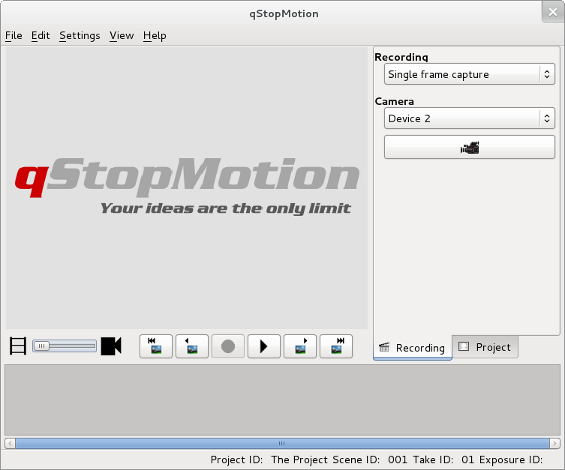
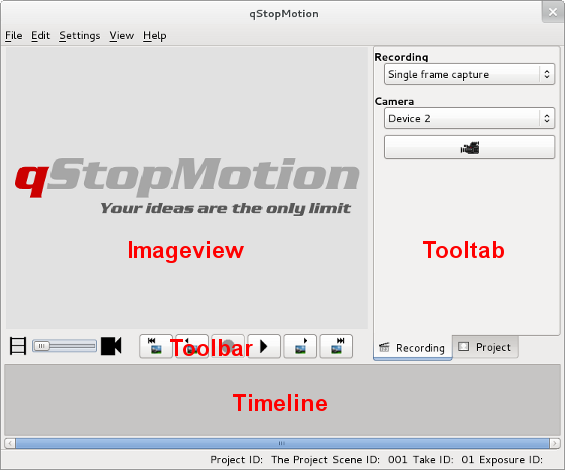
Changing the name and formating of the manual pages (part 4).

diff --git a/manual/using_webcamera.html b/manual/using_webcamera.html
@@ -4,7 +4,7 @@
 <TITLE>Using Stopmotion with your webcamera</TITLE>
 <LINK REL="HOME" TITLE="Stopmotion user manual" HREF="index.html">
 <LINK REL="PREVIOUS" TITLE="Running/previewing the animation" HREF="running_animation.html">
-<LINK REL="NEXT" TITLE="Changing the import settings" HREF="import_settings.html">
+<LINK REL="NEXT" TITLE="Export to video" HREF="exporting_video.html">
 </HEAD>
 <BODY CLASS="section">
 <DIV CLASS="NAVHEADER">
@@ -15,7 +15,7 @@
     <TR>
       <TD WIDTH="10%" ALIGN="left" VALIGN="bottom"><A HREF="running_animation.html" ACCESSKEY="P">Prev</A></TD>
       <TD WIDTH="80%" ALIGN="center" VALIGN="bottom"></TD>
-      <TD WIDTH="10%" ALIGN="right" VALIGN="bottom"><A HREF="import_settings.html" ACCESSKEY="N">Next</A></TD>
+      <TD WIDTH="10%" ALIGN="right" VALIGN="bottom"><A HREF="exporting_video.html" ACCESSKEY="N">Next</A></TD>
     </TR>
   </TABLE>
   <HR>
@@ -23,11 +23,10 @@
 <DIV CLASS="section">
   <H1 CLASS="section">5. Using qStopMotion with your webcamera</H1>
   <P>The real value of using qStopMotion lies in working directly	against a webcamera.</P>
-  <P>If you have a webcamera that works on your linux distribution and <SPAN CLASS="application">vgrabbj</SPAN> installed	you can start the camera by pressing the <SPAN CLASS="guiicon"><IMG SRC="icons/cameraon.png" width="32" height="32"></SPAN> (<B CLASS="shortcut"><B CLASS="keycap">C</B></B>) button. </P>
-  <P>If not you can go to the the next section ``Changing the import settings'' to set up your camera correctly.</P>
+  <P>If you have selected a video	device you can start the camera by pressing the <SPAN CLASS="guiicon"><IMG SRC="icons/cameraon.png" width="32" height="32"></SPAN> (<B CLASS="shortcut"><B CLASS="keycap">C</B></B>) button. </P>
   <DIV CLASS="figure">
-    <P><B>Figure 4. The Camera menu</B></P>
-    <P><IMG SRC="screenshots/camera_running.png"></P>
+    <P><B>Figure 5.1 The Camera menu</B></P>
+    <P><IMG SRC="screenshots/camera_running.png" width="565" height="470"></P>
   </DIV>
   <DIV CLASS="note">
     <TABLE CLASS="note" WIDTH="100%" BORDER="0">
@@ -44,7 +43,7 @@
       <DD>
         <P>The image mixing is probably the view mode	you will be using the most. This mode allows you to view previous pictures (up to five) on top of the camera. This way you can position the figure in relation to the previous frames	so that you can create smooth motions.</P>
         <DIV CLASS="figure">
-          <P><B>Figure 5. The onionskinning/mixing mode</B></P>
+          <P><B>Figure 5.2 The onionskinning/mixing mode</B></P>
           <P><IMG SRC="screenshots/mode_mixing.png" width="565" height="470"></P>
         </DIV>
         <P>You can change the number of pictures to	view on top of the camera with the ``Number of mixes'' slider	on the camera panel.</P>
@@ -55,7 +54,7 @@
         <P>It displays the difference between the selected frame and the camera. This way if an object in front off the camera has been	involountairly moved (fallen, etc) you can use the differentiation mode, together with the image mixing, to	move the object back to its previous position.</P>
         <P>This can be done by moving the figure until the picture is black, which means the selected frame and the camera are ``equal''.</P>
         <DIV CLASS="figure">
-          <P><B>Figure 6. The differentiation mode</B></P>
+          <P><B>Figure 5.3 The differentiation mode</B></P>
           <P><IMG SRC="screenshots/mode_differentiation.png" width="565" height="470"></P>
         </DIV>
       </DD>
@@ -64,8 +63,8 @@
         <P>The playback mode will continously run the the already recorded frames as an animation with the input from the camera as the final frame.</P>
         <P>This way you can see the camera input, which will become the next frame, together with the previous frames as an animation.</P>
         <DIV CLASS="figure">
-          <P><B>Figure 7. The playback mode</B></P>
-          <P><IMG SRC="screenshots/mode_playback.png"></P>
+          <P><B>Figure 5.4 The playback mode</B></P>
+          <P><IMG SRC="screenshots/mode_playback.png" width="565" height="470"></P>
         </DIV>
         <P>You can specify how many frame backwards that should be played (up to 50) with	the ``Number of images'' slider on the camera panel, and you can set how fast they should played with the FPS chooser on the preview panel.</P>
       </DD>
@@ -78,12 +77,12 @@
     <TR>
       <TD WIDTH="33%" ALIGN="left" VALIGN="top"><A HREF="running_animation.html" ACCESSKEY="P">Prev</A></TD>
       <TD WIDTH="34%" ALIGN="center" VALIGN="top"><A HREF="index.html" ACCESSKEY="H">Home</A></TD>
-      <TD WIDTH="33%" ALIGN="right" VALIGN="top"><A HREF="import_settings.html" ACCESSKEY="N">Next</A></TD>
+      <TD WIDTH="33%" ALIGN="right" VALIGN="top"><A HREF="exporting_video.html" ACCESSKEY="N">Next</A></TD>
     </TR>
     <TR>
       <TD WIDTH="33%" ALIGN="left" VALIGN="top">Running/previewing the animation</TD>
       <TD WIDTH="34%" ALIGN="center" VALIGN="top">&nbsp;</TD>
-      <TD WIDTH="33%" ALIGN="right" VALIGN="top">Changing the import settings</TD>
+      <TD WIDTH="33%" ALIGN="right" VALIGN="top">Exporting to video</TD>
     </TR>
   </TABLE>
 </DIV>

diff --git a/manual/exporting_video.html b/manual/exporting_video.html
@@ -3,8 +3,8 @@
 <HEAD>
 	<TITLE>Exporting to video</TITLE>
 	<LINK REL="HOME" TITLE="Stopmotion user manual" HREF="index.html">
-	<LINK REL="PREVIOUS" TITLE="Adding sound" HREF="adding_sound.html">
-	<LINK REL="NEXT" TITLE="Using Stopmotion together with other programs."HREF="other_programs.html">
+	<LINK REL="PREVIOUS" TITLE="Using qStopMotion with your webcamera" HREF="using_webcamera.html">
+	<LINK REL="NEXT" TITLE="Getting access to the image files in your animation"HREF="getting_images.html">
 </HEAD>
 <BODY CLASS="section">
 	<DIV CLASS="NAVHEADER">
@@ -13,36 +13,36 @@
 				<TH COLSPAN="3" ALIGN="center"><SPAN CLASS="application">qStopMotion</SPAN> user manual</TH>
 			</TR>
 			<TR>
-				<TD WIDTH="10%" ALIGN="left" VALIGN="bottom"><A HREF="adding_sound.html" ACCESSKEY="P">Prev</A></TD>
+				<TD WIDTH="10%" ALIGN="left" VALIGN="bottom"><A HREF="using_webcamera.html" ACCESSKEY="P">Prev</A></TD>
 				<TD WIDTH="80%" ALIGN="center" VALIGN="bottom"></TD>
-				<TD WIDTH="10%" ALIGN="right" VALIGN="bottom"><A HREF="other_programs.html" ACCESSKEY="N">Next</A></TD>
+				<TD WIDTH="10%" ALIGN="right" VALIGN="bottom"><A HREF="getting_images.html" ACCESSKEY="N">Next</A></TD>
 			</TR>
 		</TABLE>
 		<HR>
 	</DIV>
 	<DIV CLASS="section">
-		<H1 CLASS="section">8. Exporting to video</H1>
+		<H1 CLASS="section">6. Exporting to video</H1>
 		<P>By now you should have a nice animation of your own. It's time to make a video file of it. The first thing you need to do is to install an video encoder. If you have mplayer installed you should already have one you can use.</P>
-		<P>Go to the Configure menu (<SPAN CLASS="guimenu"><SPAN CLASS="accel">S</SPAN>ettings</SPAN>-&gt;<SPAN CLASS="guimenuitem"><SPAN CLASS="accel">C</SPAN>onfigure qStopMotion</SPAN> (<B CLASS="shortcut"><B CLASS="keycap">Ctrl</B>-<B CLASS="keycap">P</B></B>)) and press the <SPAN CLASS="guimenu">Video <SPAN CLASS="accel">E</SPAN>xport</SPAN> tab.	You should now get a list of video export settings:</P>
+		<P>Go to the Preferences menu (<SPAN CLASS="guimenu"><SPAN CLASS="accel">S</SPAN>ettings</SPAN>-&gt;<SPAN CLASS="guimenuitem"><SPAN CLASS="accel">C</SPAN>onfigure qStopMotion</SPAN> (<B CLASS="shortcut"><B CLASS="keycap">Ctrl</B>-<B CLASS="keycap">P</B></B>)) and press the <SPAN CLASS="guimenu">Video <SPAN CLASS="accel">E</SPAN>xport</SPAN> tab.	You should now get a list of video export settings:</P>
 		<DIV CLASS="figure">
-			<P><B>Figure 9. The Video Export menu</B></P>
+			<P><B>Figure 6.1 The Video Export menu</B></P>
 			<P><IMG SRC="screenshots/preferences_video_export.png" width="425" height="400"></P>
 	  </DIV>
-		<P>You can select one of these provided you have the programs they use or you can add one of your own. To edit one of the present preferences press the <SPAN CLASS="guimenu"><SPAN CLASS="accel">E</SPAN>dit</SPAN> button, or use the <SPAN CLASS="guimenu"><SPAN CLASS="accel">A</SPAN>dd</SPAN>	button to add a new setting. When you have set up a video export setting you can close the Configure menu by pressing the OK button.</P>
+		<P>Change the video export setting to the format, size and frame rate you like. When you have set up a video export setting you can close the Configure menu by pressing the OK button.</P>
 		<P>To export your animation to a video file just press <SPAN CLASS="guimenu"><SPAN CLASS="accel">F</SPAN>ile</SPAN>-&gt;<SPAN CLASS="guimenuitem"><SPAN CLASS="accel">E</SPAN>xport</SPAN>-&gt;<SPAN CLASS="guimenuitem">Video</SPAN> (<B CLASS="shortcut"><B CLASS="keycap">Ctrl</B>-<B CLASS="keycap">Alt</B>-<B CLASS="keycap">V</B></B>) and you should have a video file of your exellent animation. Tell your friends!</P>
 	</DIV>
 	<DIV CLASS="NAVFOOTER">
 		<HR>
 		<TABLE SUMMARY="Footer navigation table" WIDTH="100%" BORDER="0" CELLPADDING="0" CELLSPACING="0">
 			<TR>
-				<TD WIDTH="33%" ALIGN="left" VALIGN="top"><A HREF="adding_sound.html" ACCESSKEY="P">Prev</A></TD>
+				<TD WIDTH="33%" ALIGN="left" VALIGN="top"><A HREF="using_webcamera.html" ACCESSKEY="P">Prev</A></TD>
 				<TD WIDTH="34%" ALIGN="center" VALIGN="top"><A HREF="index.html" ACCESSKEY="H">Home</A></TD>
-				<TD WIDTH="33%" ALIGN="right" VALIGN="top"><A HREF="other_programs.html" ACCESSKEY="N">Next</A></TD>
+				<TD WIDTH="33%" ALIGN="right" VALIGN="top"><A HREF="getting_images.html" ACCESSKEY="N">Next</A></TD>
 			</TR>
 			<TR>
-				<TD WIDTH="33%" ALIGN="left" VALIGN="top">Adding sound</TD>
+				<TD WIDTH="33%" ALIGN="left" VALIGN="top">Using qStopMotion together with other programs</TD>
 				<TD WIDTH="34%" ALIGN="center" VALIGN="top">&nbsp;</TD>
-				<TD WIDTH="33%" ALIGN="right" VALIGN="top">Using qStopMotion together with other programs.</TD>
+				<TD WIDTH="33%" ALIGN="right" VALIGN="top">Getting access to the image files in your animation</TD>
 			</TR>
 		</TABLE>
 	</DIV>

diff --git a/manual/getting_started.html b/manual/getting_started.html
@@ -30,14 +30,26 @@
   </UL>
   <P>When the program is started you will se the following:</P>
   <DIV CLASS="figure">
-    <P><B>Figure 1. qStopMotion at startup</B></P>
+    <P><B>Figure 2.1 qStopMotion at startup</B></P>
     <P><IMG SRC="screenshots/empty_project.png" width="565" height="470"></P>
   </DIV>
-  <P>To the top you have the Framebar where you will see all the pictures in the animation. 
-    The center area is the Frameview where you will get a closer look at your pictures,
-    see the webcamera and preview your animation. </P>
-  <P>The left area is the tools menu. On the top of this menu you have buttons for adding
-    pictures from the harddrive <SPAN CLASS="guiicon"><IMG SRC="icons/addframes.png" width="32" height="32"></SPAN> , adding new scenes <SPAN CLASS="guiicon"><IMG SRC="icons/addscene.png" width="32" height="32"></SPAN> as well as deleting frames and scenes <SPAN CLASS="guiicon"><IMG SRC="icons/removeframes.png" width="32" height="32"></SPAN> <SPAN CLASS="guiicon"><IMG SRC="icons/removescene.png" width="32" height="32"></SPAN>. You can also start the webcamera with the camera button <SPAN CLASS="guiicon"><IMG SRC="icons/cameraon.png" width="32" height="32"></SPAN>. </P>
+  <P>To the bottom you have the Timeline where you will see all the pictures in the animation.</P>
+  <P>The center area is the Imageview where you will get a closer look at your pictures,
+    see the webcamera and preview your animation. To the bottom of the Imageview you have the Toolbar to navigate in the Timeline, take pictures and play the animation. </P>
+  <P>The right area are the Tooltabs. To switch between the different Tooltabs use the flags to the bottom of the Tooltabs.</P>
+  <P>qStopMotion starts with the selected Recording Tooltab.</P>
+  <DIV CLASS="figure">
+    <P><B>Figure 2.2 The Recording Tooltab</B></P>
+    <P><IMG SRC="screenshots/tooltab_recording.png" width="565" height="470"></P>
+  </DIV>
+  <P>On the top of this tooltab you can select the recording method. All connected video devices contain the next listbox. At first you have to select one of these video devices. Now you can also start the video device with the camera button <SPAN CLASS="guiicon"><IMG SRC="icons/cameraon.png" width="32" height="32"></SPAN>.</P>
+  <P>The second Tooltab is the Project Tooltab.</P>
+  <DIV CLASS="figure">
+    <P><B>Figure 2.3 The Project Tooltab</B></P>
+    <P><IMG SRC="screenshots/tooltab_project.png" width="565" height="470"></P>
+  </DIV>
+  <P>On the top of this tooltab you have the project tree containing all scenes, takes and frames of your animation. Than you can see a line of buttons for inserting new scenes <SPAN CLASS="guiicon"><IMG SRC="icons/insertscene.png" width="32" height="32"></SPAN>, adding new scenes <SPAN CLASS="guiicon"><IMG SRC="icons/addscene.png" width="32" height="32"></SPAN> as well as deleting scenes <SPAN CLASS="guiicon"><IMG SRC="icons/removescene.png" width="32" height="32"></SPAN>.  The following line of buttons is for inserting new takes <SPAN CLASS="guiicon"><IMG SRC="icons/inserttake.png" width="32" height="32"></SPAN>, adding new takes <SPAN CLASS="guiicon"><IMG SRC="icons/addtake.png" width="32" height="32"></SPAN> as well as deleting takes <SPAN CLASS="guiicon"><IMG SRC="icons/removetake.png" width="32" height="32"></SPAN>. With the buttons in the last line you can inserting <SPAN CLASS="guiicon"><IMG SRC="icons/insertframes.png" width="32" height="32"></SPAN> or adding
+    pictures from the harddrive <SPAN CLASS="guiicon"><IMG SRC="icons/addframes.png" width="32" height="32"></SPAN> as well as deleting frames and scenes <SPAN CLASS="guiicon"><IMG SRC="icons/removeframes.png" width="32" height="32"></SPAN>. </P>
 </DIV>
 <DIV CLASS="NAVFOOTER">
   <HR>

diff --git a/manual/getting_images.html b/manual/getting_images.html
@@ -3,8 +3,8 @@
 <HEAD>
 	<TITLE>Getting access to the image files in your animation.</TITLE>
 	<LINK REL="HOME" TITLE="Stopmotion user manual" HREF="index.html">
-	<LINK REL="PREVIOUS" TITLE="Using Stopmotion together with other programs." HREF="other_programs.html">
-	<LINK REL="NEXT" TITLE="Troubleshooting" HREF="trouble_shooting.html">
+	<LINK REL="PREVIOUS" TITLE="Exporting to video" HREF="exporting_video.html">
+	<LINK REL="NEXT" TITLE="Shortcut keys" HREF="shortcut_keys.html">
 </HEAD>
 <BODY CLASS="section">
 	<DIV CLASS="NAVHEADER">
@@ -13,7 +13,7 @@
 				<TH COLSPAN="3" ALIGN="center"><SPAN CLASS="application">qStopMotion</SPAN> user manual</TH>
 			</TR>
 			<TR>
-				<TD WIDTH="10%" ALIGN="left" VALIGN="bottom"><A HREF="other_programs.html" ACCESSKEY="P">Prev</A></TD>
+				<TD WIDTH="10%" ALIGN="left" VALIGN="bottom"><A HREF="exporting_video.html" ACCESSKEY="P">Prev</A></TD>
 				<TD WIDTH="80%" ALIGN="center" VALIGN="bottom"></TD>
 				<TD WIDTH="10%" ALIGN="right" VALIGN="bottom"><A HREF="shortcut_keys.html" ACCESSKEY="N">Next</A></TD>
 			</TR>
@@ -21,21 +21,21 @@
 		<HR>
 	</DIV>
 	<DIV CLASS="section">
-		<H1 CLASS="section">10. Getting access to the image files in your animation.</H1>
+		<H1 CLASS="section">7. Getting access to the image files in your animation.</H1>
 		<P>If you want access to the image files in your animation project you can open the project .sto file in your file browser. The file is a tarball file and inside it you will find the images in the images directory.</P>
 	</DIV>
 	<DIV CLASS="NAVFOOTER">
 		<HR>
 		<TABLE SUMMARY="Footer navigation table" WIDTH="100%" BORDER="0" CELLPADDING="0" CELLSPACING="0">
 			<TR>
-				<TD WIDTH="33%" ALIGN="left" VALIGN="top"><A HREF="other_programs.html" ACCESSKEY="P">Prev</A></TD>
+				<TD WIDTH="33%" ALIGN="left" VALIGN="top"><A HREF="exporting_video.html" ACCESSKEY="P">Prev</A></TD>
 				<TD WIDTH="34%" ALIGN="center" VALIGN="top"><A HREF="index.html" ACCESSKEY="H">Home</A></TD>
 				<TD WIDTH="33%" ALIGN="right" VALIGN="top"><A HREF="shortcut_keys.html" ACCESSKEY="N">Next</A></TD>
 			</TR>
 			<TR>
-				<TD WIDTH="33%" ALIGN="left" VALIGN="top">Using qStopMotion together with other programs.</TD>
+				<TD WIDTH="33%" ALIGN="left" VALIGN="top">Exporting video</TD>
 				<TD WIDTH="34%" ALIGN="center" VALIGN="top">&nbsp;</TD>
-				<TD WIDTH="33%" ALIGN="right" VALIGN="top">Troubleshooting</TD>
+				<TD WIDTH="33%" ALIGN="right" VALIGN="top">Shortcut keys</TD>
 			</TR>
 		</TABLE>
 	</DIV>

diff --git a/manual/running_animation.html b/manual/running_animation.html
@@ -25,10 +25,10 @@
   <P>Now that you have added some test pictures to your animations wouldn't you like to run them as an animation?</P>
   <P>qStopMotion allows you to preview your animation before exporting it. This can be done through the play panel.</P>
   <DIV CLASS="figure">
-    <P><B>Figure 3. The Run Animation menu</B></P>
-    <P><IMG SRC="screenshots/run_animation.png"></P>
+    <P><B>Figure 4.1 The Run Animation menu</B></P>
+    <P><IMG SRC="screenshots/run_animation.png" width="565" height="470"></P>
   </DIV>
-  <P>The play panel allows you to play	(<SPAN CLASS="guiicon"><IMG SRC="icons/play.png" width="32" height="32"></SPAN> (<B CLASS="shortcut"><B CLASS="keycap">K</B></B>))	and stop (<SPAN CLASS="guiicon"><IMG SRC="icons/stop.png" width="32" height="32"></SPAN>) the running of the animation. You can also move between frames	(<SPAN CLASS="guiicon"><IMG SRC="icons/previousscene.png" width="32" height="32"></SPAN> (<B CLASS="shortcut"><B CLASS="keycap">J</B></B>), <SPAN CLASS="guiicon"><IMG SRC="icons/nextscene.png" width="32" height="32"></SPAN> (<B CLASS="shortcut"><B CLASS="keycap">L</B></B>)) and scenes (<SPAN CLASS="guiicon"><IMG SRC="icons/firstscene.png" width="32" height="32"></SPAN> (<B CLASS="shortcut"><B CLASS="keycap">I</B></B>), <SPAN CLASS="guiicon"><IMG SRC="icons/lastscene.png" width="32" height="32"></SPAN> (<B CLASS="shortcut"><B CLASS="keycap">O</B></B>))	as well as changing the speed of the animation preview(frames	per second).</P>
+  <P>The play panel allows you to play	(<SPAN CLASS="guiicon"><IMG SRC="icons/play.png" width="32" height="32"></SPAN> (<B CLASS="shortcut"><B CLASS="keycap">K</B></B>))	and stop (<SPAN CLASS="guiicon"><IMG SRC="icons/stop.png" width="32" height="32"></SPAN>) the running of the animation. You can also move between frames	(<SPAN CLASS="guiicon"><IMG SRC="icons/previousexposure.png" width="32" height="32"></SPAN> (<B CLASS="shortcut"><B CLASS="keycap">J</B></B>), <SPAN CLASS="guiicon"><IMG SRC="icons/nextexposure.png" width="32" height="32"></SPAN> (<B CLASS="shortcut"><B CLASS="keycap">L</B></B>)) and to fist or last frame (<SPAN CLASS="guiicon"><IMG SRC="icons/firstexposure.png" width="32" height="32"></SPAN> (<B CLASS="shortcut"><B CLASS="keycap">I</B></B>), <SPAN CLASS="guiicon"><IMG SRC="icons/lastexposure.png" width="32" height="32"></SPAN> (<B CLASS="shortcut"><B CLASS="keycap">O</B></B>)).</P>
   <DIV CLASS="note">
     <TABLE CLASS="note" WIDTH="100%" BORDER="0">
       <TR>

diff --git a/manual/trouble_shooting.html b/manual/trouble_shooting.html
@@ -3,7 +3,7 @@
 <HEAD>
 	<TITLE>Troubleshooting</TITLE>
 	<LINK REL="HOME" TITLE="Stopmotion user manual" HREF="index.html">
-	<LINK REL="PREVIOUS" TITLE="Getting access to the image files in your animation." HREF="getting_images.html">
+	<LINK REL="PREVIOUS" TITLE="Shortcut keys" HREF="shortcut_keys.html">
 </HEAD>
 <BODY CLASS="section">
 	<DIV CLASS="NAVHEADER">
@@ -20,9 +20,9 @@
 		<HR>
 	</DIV>
 	<DIV CLASS="section">
-		<H1 CLASS="section">12. Troubleshooting</H1>
+		<H1 CLASS="section">9. Troubleshooting</H1>
 		<DIV CLASS="section">
-			<H2 CLASS="section">12.1. The program tells me it can't import images</H2>
+			<H2 CLASS="section">9.1. The program tells me it can't import images</H2>
 			<P>Have you checked that:</P>
 			<OL TYPE="1">
 				<LI>The camera is working in Linux and the driver is properly set up?</LI>
@@ -40,7 +40,7 @@
 				<TD WIDTH="33%" ALIGN="right" VALIGN="top">&nbsp;</TD>
 			</TR>
 			<TR>
-				<TD WIDTH="33%" ALIGN="left" VALIGN="top">Getting access to the image files in your animation.</TD>
+				<TD WIDTH="33%" ALIGN="left" VALIGN="top">Shortcut keys</TD>
 				<TD WIDTH="34%" ALIGN="center" VALIGN="top">&nbsp;</TD>
 				<TD WIDTH="33%" ALIGN="right" VALIGN="top">&nbsp;</TD>
 			</TR>

diff --git a/manual/adding_pictures.html b/manual/adding_pictures.html
@@ -22,11 +22,11 @@
 </DIV>
 <DIV CLASS="section">
   <H1 CLASS="section">3. Adding pictures</H1>
-  <P>The next step is to try adding some pictures from the harddrive. You can do this by
-    clicking on the <SPAN CLASS="guiicon"><IMG SRC="icons/addframes.png" width="32" height="32"></SPAN> (<B CLASS="shortcut"><B CLASS="keycap">Ctrl</B>-<B CLASS="keycap">F</B></B>) button.</P>
+  <P>The next step is to try adding some pictures from the harddrive.</P>
+  <P>You can do this by clicking on the <SPAN CLASS="guiicon"><IMG SRC="icons/addframes.png" width="32" height="32"></SPAN> (<B CLASS="shortcut"><B CLASS="keycap">Ctrl</B>-<B CLASS="keycap">F</B></B>) button on the project tab on the right hand side.</P>
   <P>You will get the following dialog where you can select the pictures to add to the project:</P>
   <DIV CLASS="figure">
-    <P><B>Figure 2. The Add frames dialog</B></P>
+    <P><B>Figure 3.1 The Add frames dialog</B></P>
     <P> <IMG SRC="screenshots/dialog_add_frames.png" width="479" height="340"></P>
   </DIV>
   <P>When you have selected some pictures you can click on the <SPAN CLASS="guimenu"><SPAN CLASS="accel">O</SPAN>pen</SPAN> button and the pictures will be added to the project as frames.</P>

diff --git a/manual/index.html b/manual/index.html
@@ -23,13 +23,10 @@
       <DT>3. <A HREF="adding_pictures.html">Adding pictures</A></DT>
       <DT>4. <A HREF="running_animation.html">Running/previewing the animation</A></DT>
       <DT>5. <A HREF="using_webcamera.html">Using qStopMotion with your webcamera</A></DT>
-      <DT>6. <A HREF="import_settings.html">Changing the import settings</A></DT>
-      <DT>7. <A HREF="adding_sound.html">Adding sound</A></DT>
-      <DT>8. <A HREF="exporting_video.html">Exporting to video</A></DT>
-      <DT>9. <A HREF="other_programs.html">Using qStopMotion together with other programs.</A></DT>
-      <DT>10. <A HREF="getting_images.html">Getting access to the image files in your animation.</A></DT>
-      <DT>11. <A HREF="shortcut_keys.html">Shortcut Keys.</A></DT>
-      <DT>12. <A HREF="trouble_shooting.html">Troubleshooting</A></DT>
+      <DT>6. <A HREF="exporting_video.html">Exporting to video</A></DT>
+      <DT>7. <A HREF="getting_images.html">Getting access to the image files in your animation.</A></DT>
+      <DT>8. <A HREF="shortcut_keys.html">Shortcut keys.</A></DT>
+      <DT>9. <A HREF="trouble_shooting.html">Troubleshooting</A></DT>
     </DL>
   </DIV>
   <DIV CLASS="section">

diff --git a/manual/import_settings.html b/manual/import_settings.html
@@ -21,11 +21,11 @@
 		<HR>
 	</DIV>
 	<DIV CLASS="section">
-		<H1 CLASS="section">6. Changing the import settings</H1>
+		<H1 CLASS="section">X. Changing the import settings</H1>
 		<P>If the video importing doesn't work or if you want other settings you can change the way video is imported in qStopMotion.</P>
 		<P>This is done through the configure menu (<SPAN CLASS="guimenu"><SPAN CLASS="accel">S</SPAN>ettings</SPAN>-&gt;<SPAN CLASS="guimenuitem"><SPAN CLASS="accel">C</SPAN>onfigure qStopMotion</SPAN> (<B CLASS="shortcut"><B CLASS="keycap">Ctrl</B>-<B CLASS="keycap">P</B></B>)) and you can either choose from one of the predefined settings or create your own.</P>
 		<DIV CLASS="figure">
-			<P><B>Figure 8. The Video Import config menu</B></P>
+			<P><B>Figure X.1 The Video Import config menu</B></P>
 			<P><IMG SRC="screenshots/preferences_frame_import.png"></P>
 		</DIV>
 		<P>Image importing in qStopMotion works by continously asking an external program to grab a picture from the camera and place it in the .stopmotion directory. qStopMotion then displays this picture, and when this is done continously you get live video.</P>

diff --git a/manual/other_programs.html b/manual/other_programs.html
@@ -21,11 +21,11 @@
 		<HR>
 	</DIV>
 	<DIV CLASS="section">
-		<H1 CLASS="section">9. Using qStopMotion together with other programs.</H1>
+		<H1 CLASS="section">X. Using qStopMotion together with other programs.</H1>
 		<P>qStopMotion supports drag and drop and you can drag pictures to and from the desktop or other programs.</P>
 		<P>One especially useful example of using qStopMotion with other programs is to	use gimp (or another painting program) to add effects to the frames.</P>
 		<DIV CLASS="figure">
-			<P><B>Figure 10. Adding effects with gimp</B></P>
+			<P><B>Figure X.1 Adding effects with gimp</B></P>
 			<P><IMG SRC="screenshots/call_gimp.png" width="1080" height="675"></P>
 	  </DIV>
 		<P>The best way to do this is to drag a frame/picture from <SPAN CLASS="application">qStopMotion</SPAN> to gimp. Change around with it in <SPAN CLASS="application">gimp</SPAN>, then save the picture in gimp (<SPAN CLASS="guimenu"><SPAN CLASS="accel">F</SPAN>ile</SPAN>-&gt;<SPAN CLASS="guimenuitem"><SPAN CLASS="accel">S</SPAN>ave</SPAN> (<B CLASS="shortcut"><B CLASS="keycap">Ctrl</B>-<B CLASS="keycap">S</B></B>)) (not save as).</P>

diff --git a/manual/adding_sound.html b/manual/adding_sound.html
@@ -21,7 +21,7 @@
 		<HR>
 	</DIV>
 	<DIV CLASS="section">
-		<H1 CLASS="section">7. Adding sound</H1>
+		<H1 CLASS="section">X. Adding sound</H1>
 		<P>You also can add sound to your animations. Before you can do this however you need to have a frame to attatch the sound to. Therefore you should add some frames from the harddrive or webcamera first.</P>
 		<P>When you have one or more frames you can add a sound by double clicking with the mouse on the frame to attatch the sound to. You will then get a menu where you can add sounds. When running the animation the sound will be played from this frame and until the sound is completed or the animation is at an end.</P>
 		<DIV CLASS="note">

diff --git a/manual/shortcut_keys.html b/manual/shortcut_keys.html
@@ -21,7 +21,7 @@
 		<HR>
 	</DIV>
 	<DIV CLASS="section">
-		<H1 CLASS="section">11. Shortcut keys</H1>
+		<H1 CLASS="section">8. Shortcut keys</H1>
 		<DIV CLASS="table">
 			<P><B>Table 1. General shortcuts</B></P>
 			<TABLE BORDER="1" CLASS="CALSTABLE">
